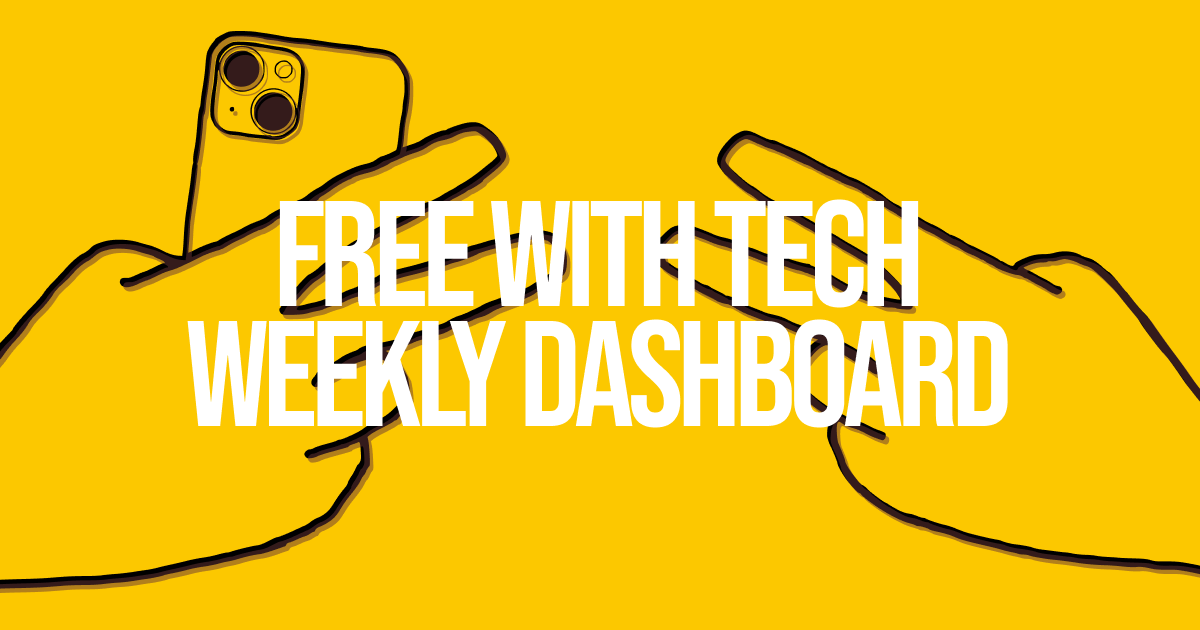
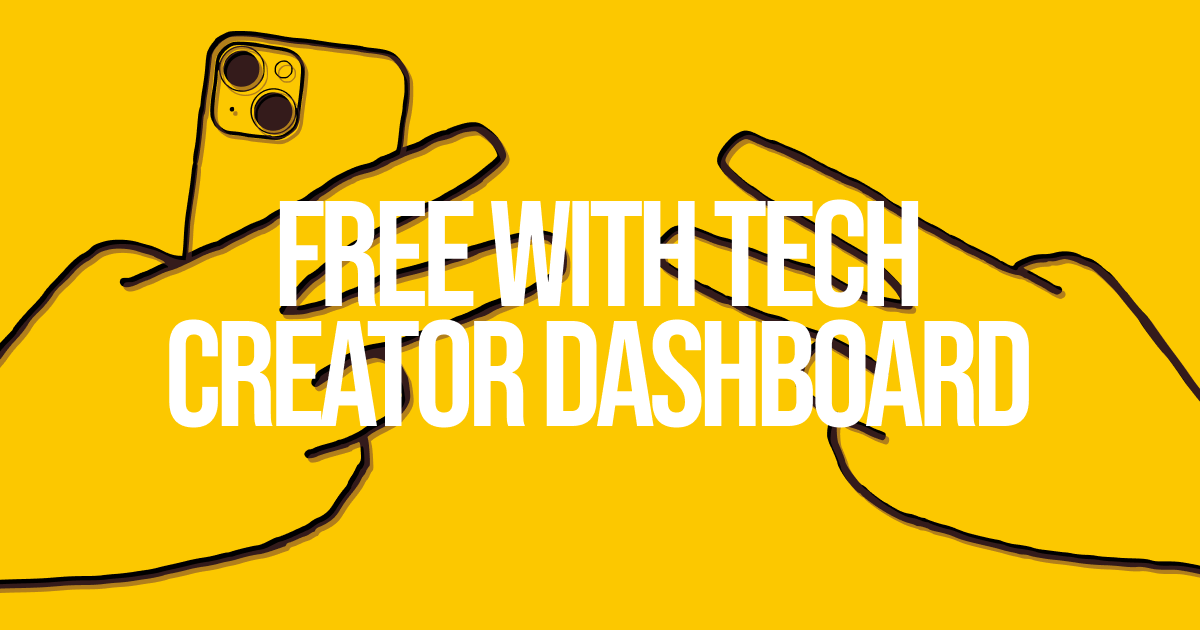
chore: creator dashboard instead of weeky creator dashboard

Changed region(s): [[0.1233, 0.4825, 0.8633, 0.6937]]

diff --git a/app/page.tsx b/app/page.tsx
@@ -4,13 +4,13 @@ import { getAggregatedStats } from "@/lib/stats";
 import { YearGrid } from "./components/year-grid";
 
 export const metadata = {
-  title: "Free With Tech – Weekly Creator Dashboard",
+  title: "Free With Tech – Creator Dashboard",
   description:
     "A transparent look behind the scenes of the Free With Tech project. Follow weekly progress, content publishing, time invested, and resources spent on building a public brand from scratch.",
   openGraph: {
     type: "website",
     url: "https://dash.fwt.wtf",
-    title: "Free With Tech – Weekly Creator Dashboard",
+    title: "Free With Tech – Creator Dashboard",
     description:
       "A transparent look behind the scenes of the Free With Tech project. Follow weekly progress, content publishing, time invested, and resources spent on building a public brand from scratch.",
     images: [
@@ -18,13 +18,13 @@ export const metadata = {
         url: "https://dash.fwt.wtf/assets/og-image.png",
         width: 1200,
         height: 630,
-        alt: "Free With Tech – Weekly Creator Dashboard",
+        alt: "Free With Tech – Creator Dashboard",
       },
     ],
   },
   twitter: {
     card: "summary_large_image",
-    title: "Free With Tech – Weekly Creator Dashboard",
+    title: "Free With Tech – Creator Dashboard",
     description:
       "A transparent look behind the scenes of the Free With Tech project. Follow weekly progress, content publishing, time invested, and resources spent on building a public brand from scratch.",
     images: ["https://dash.fwt.wtf/assets/og-image.png"],

diff --git a/README.md b/README.md
@@ -1,4 +1,4 @@
-# ☕ Free With Tech – Weekly Creator Dashboard
+# ☕ Free With Tech – Creator Dashboard
 
 A transparent, open-source dashboard to track the weekly progress of building a personal brand from scratch. This project documents content creation, time investment, and resources spent — all in the open.
 
